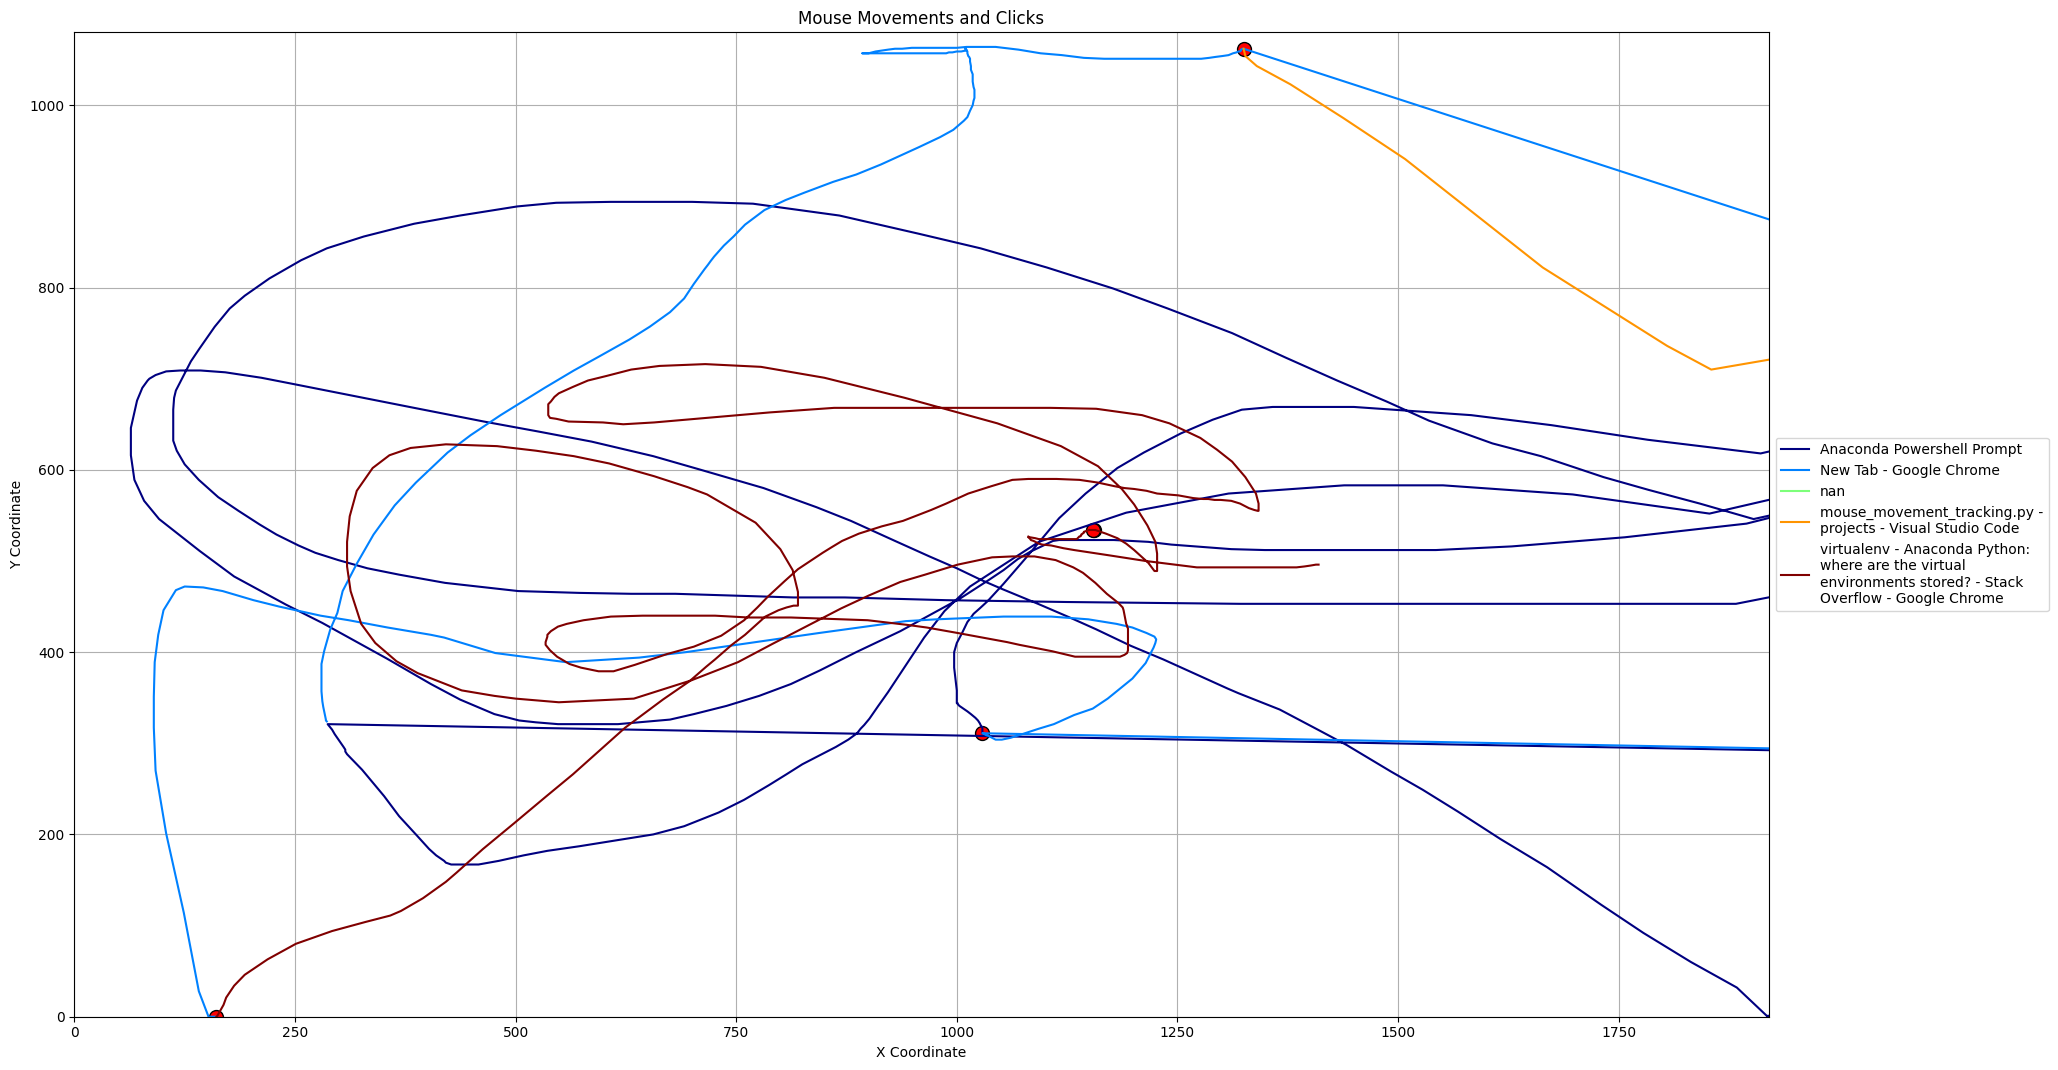
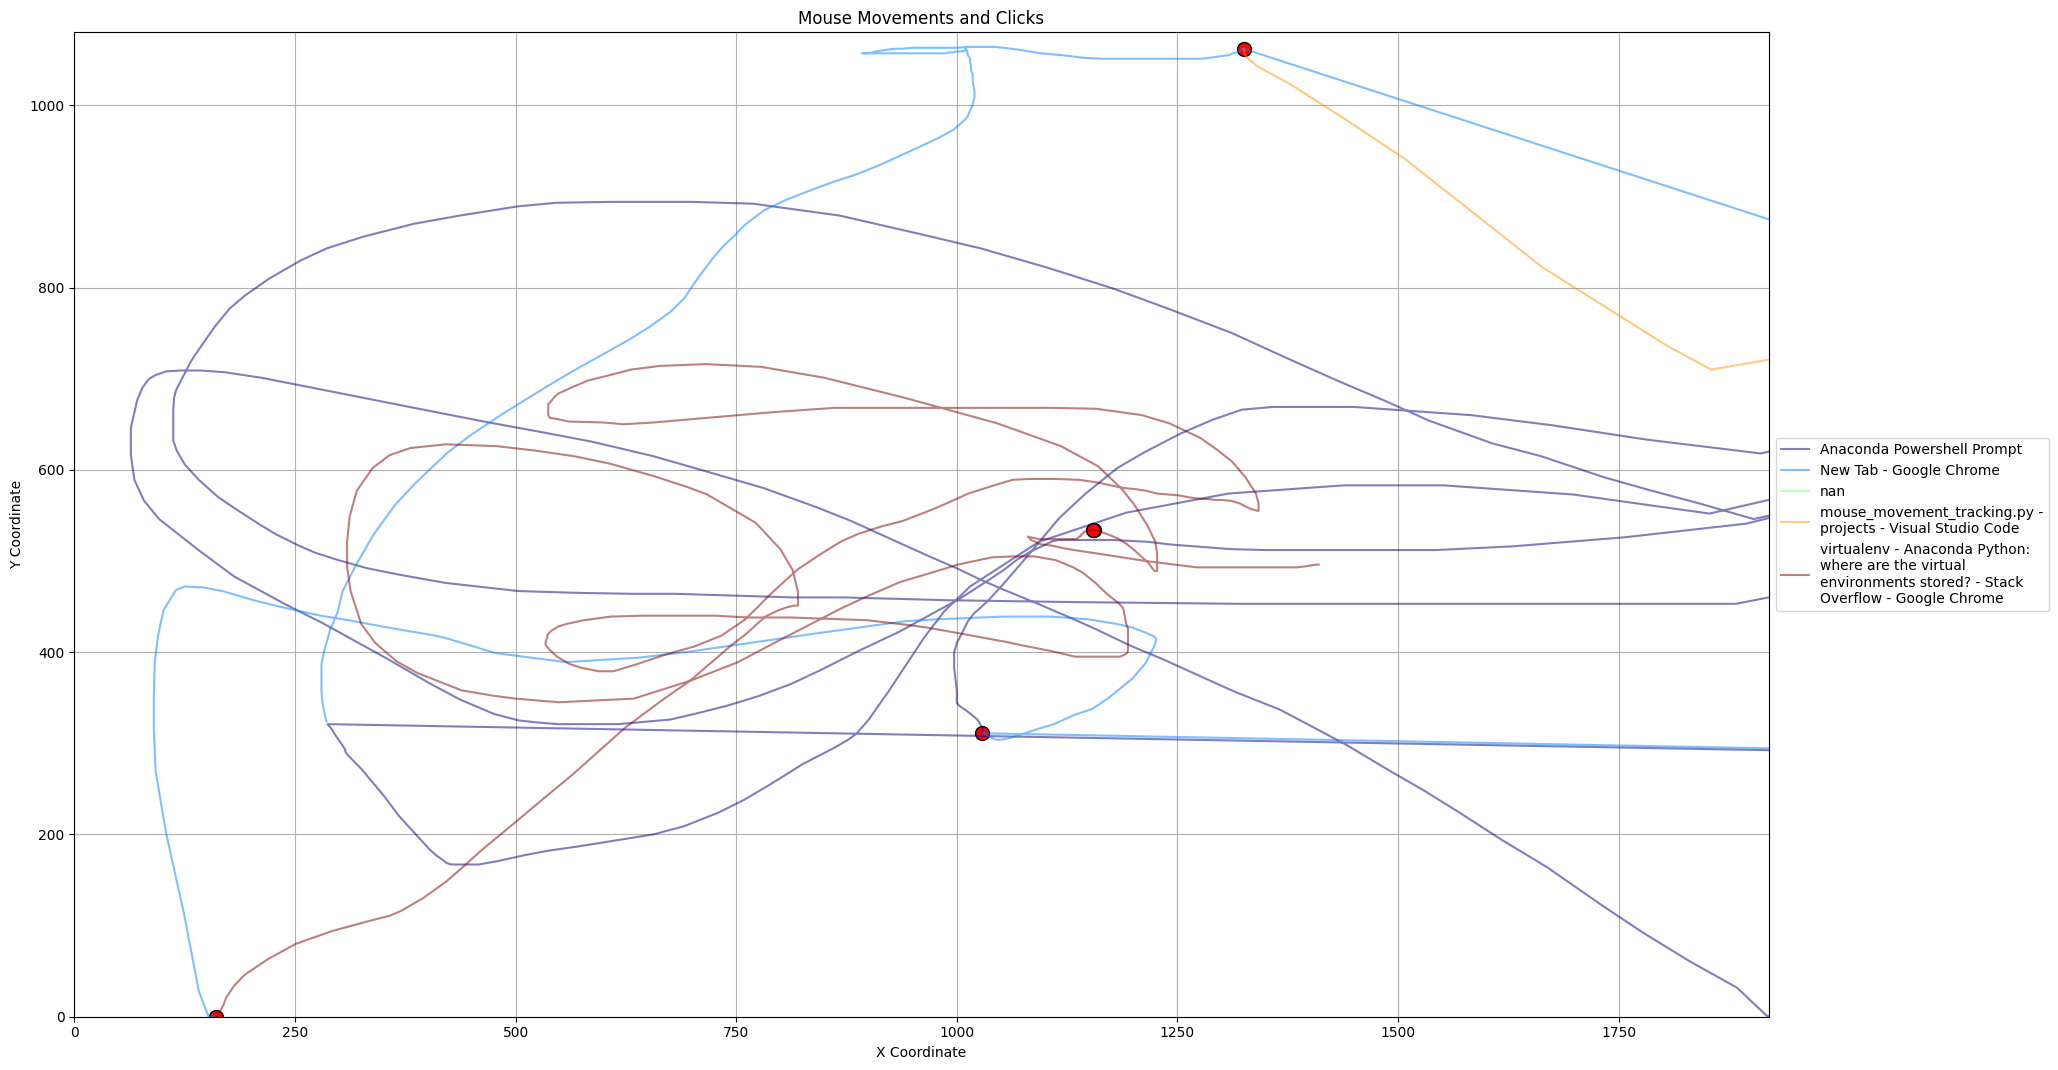
add parameters for mouse clicks and active windows

diff --git a/scripts/visualize_movemovement.py b/scripts/visualize_movemovement.py
@@ -1,35 +1,63 @@
 import pandas as pd
 import matplotlib.pyplot as plt
-import numpy as np
+import textwrap
 import argparse
 import pyautogui
-import textwrap
+import numpy as np
 
-def visualize_and_export_mouse_data(filename):
+def str2bool(v):
+    """
+    Convert string representation of boolean to a boolean type.
+    """
+    if isinstance(v, bool):
+        return v
+    if v.lower() in ('yes', 'true', 't', 'y', '1'):
+        return True
+    elif v.lower() in ('no', 'false', 'f', 'n', '0'):
+        return False
+    else:
+        raise argparse.ArgumentTypeError('Boolean value expected.')
+
+
+def visualize_and_export_mouse_data(filename, include_clicks=True, include_active_windows=True):
     # Fetch screen resolution
     screen_width, screen_height = pyautogui.size()
 
     # Adjust the figure size based on the screen resolution
-    fig_width = screen_width / 100  # Assuming 100 DPI, can be adjusted
+    fig_width = screen_width / 100
     fig_height = screen_height / 100
 
     # Load the data
     mouse_data = pd.read_csv(filename)
-
-    # Get unique active windows and assign a unique color to each
     unique_windows = mouse_data['active_window_title'].unique()
-    colors = plt.cm.jet(np.linspace(0, 1, len(unique_windows)))
-    window_to_color = dict(zip(unique_windows, colors))
-
-    # Plot the trajectories
+    # Plotting setup
     fig, ax = plt.subplots(figsize=(fig_width, fig_height))
-    for window, color in window_to_color.items():
-        subset = mouse_data[mouse_data['active_window_title'] == window]
-        ax.plot(subset['x'], subset['y'], label=window, color=color)
+    
+    if include_active_windows:
+        # Get unique active windows and assign a unique color to each
+        colors = plt.cm.jet(np.linspace(0, 1, len(unique_windows)))
+        window_to_color = dict(zip(unique_windows, colors))
+        
+        for window, color in window_to_color.items():
+            subset = mouse_data[mouse_data['active_window_title'] == window]
+            ax.plot(subset['x'], subset['y'], color=color, alpha=0.5)
+    else:
+        ax.plot(mouse_data['x'], mouse_data['y'], color='blue', alpha=0.5) # Using a single color
 
-    # Highlight mouse clicks
-    clicks = mouse_data.dropna(subset=['mouse_click'])
-    ax.scatter(clicks['x'], clicks['y'], color='red', s=100, marker='o', edgecolors='black', label='Mouse Clicks')
+    if include_clicks:
+               
+        # Highlight mouse clicks
+        left_clicks = mouse_data[mouse_data['mouse_click'] == 'left']
+        right_clicks = mouse_data[mouse_data['mouse_click'] == 'right']
+        middle_clicks = mouse_data[mouse_data['mouse_click'] == 'middle']
+        scroll_clicks = mouse_data[mouse_data['mouse_click'] == 'scroll']
+        other_clicks = mouse_data[~mouse_data['mouse_click'].isin(['left', 'right', 'middle', 'scroll']) & ~mouse_data['mouse_click'].isna()]
+
+        ax.scatter(left_clicks['x'], left_clicks['y'], color='red', s=100, marker='o', edgecolors='black', label='Left Clicks')
+        ax.scatter(right_clicks['x'], right_clicks['y'], color='blue', s=100, marker='o', edgecolors='black', label='Right Clicks')
+        ax.scatter(middle_clicks['x'], middle_clicks['y'], color='green', s=100, marker='o', edgecolors='black', label='Middle Clicks')
+        ax.scatter(scroll_clicks['x'], scroll_clicks['y'], color='purple', s=100, marker='o', edgecolors='black', label='Scroll Clicks')
+        ax.scatter(other_clicks['x'], other_clicks['y'], color='orange', s=100, marker='o', edgecolors='black', label='Other Clicks')
 
     # Setting the plot aesthetics
     ax.set_xlim(0, screen_width)
@@ -39,11 +67,11 @@ def visualize_and_export_mouse_data(filename):
     ax.set_ylabel('Y Coordinate')
     ax.grid(True)
 
-    # Adjusting legend size and placement for 90-10 ratio
+    # Adjusting legend size and placement
     box = ax.get_position()
     ax.set_position([box.x0, box.y0, box.width * 0.9, box.height])
 
-    # Wrapping the window title if it's too long, ensuring each title is a string
+    # Wrapping the window title if it's too long
     wrapped_windows = ['\n'.join(textwrap.wrap(str(window), 30)) for window in unique_windows]
 
     # Increasing the font size and wrapping the text
@@ -58,10 +86,11 @@ def visualize_and_export_mouse_data(filename):
 
     print(f"Visualization exported to: {export_filename}")
 
-
 if __name__ == "__main__":
     parser = argparse.ArgumentParser(description="Visualize mouse movement data from a CSV file.")
     parser.add_argument("--csv_path", type=str, required=True, help="Path to the CSV file containing mouse movement data.")
+    parser.add_argument("--include_clicks", type=str2bool, default=True, help="Include mouse movement trajectories in the visualization. Default is True.")
+    parser.add_argument("--include_active_windows", type=str2bool, default=True, help="Differentiate mouse trajectories based on active windows. Default is True.")
     
     args = parser.parse_args()
-    visualize_and_export_mouse_data(args.csv_path)
+    visualize_and_export_mouse_data(args.csv_path, args.include_clicks, args.include_active_windows)
